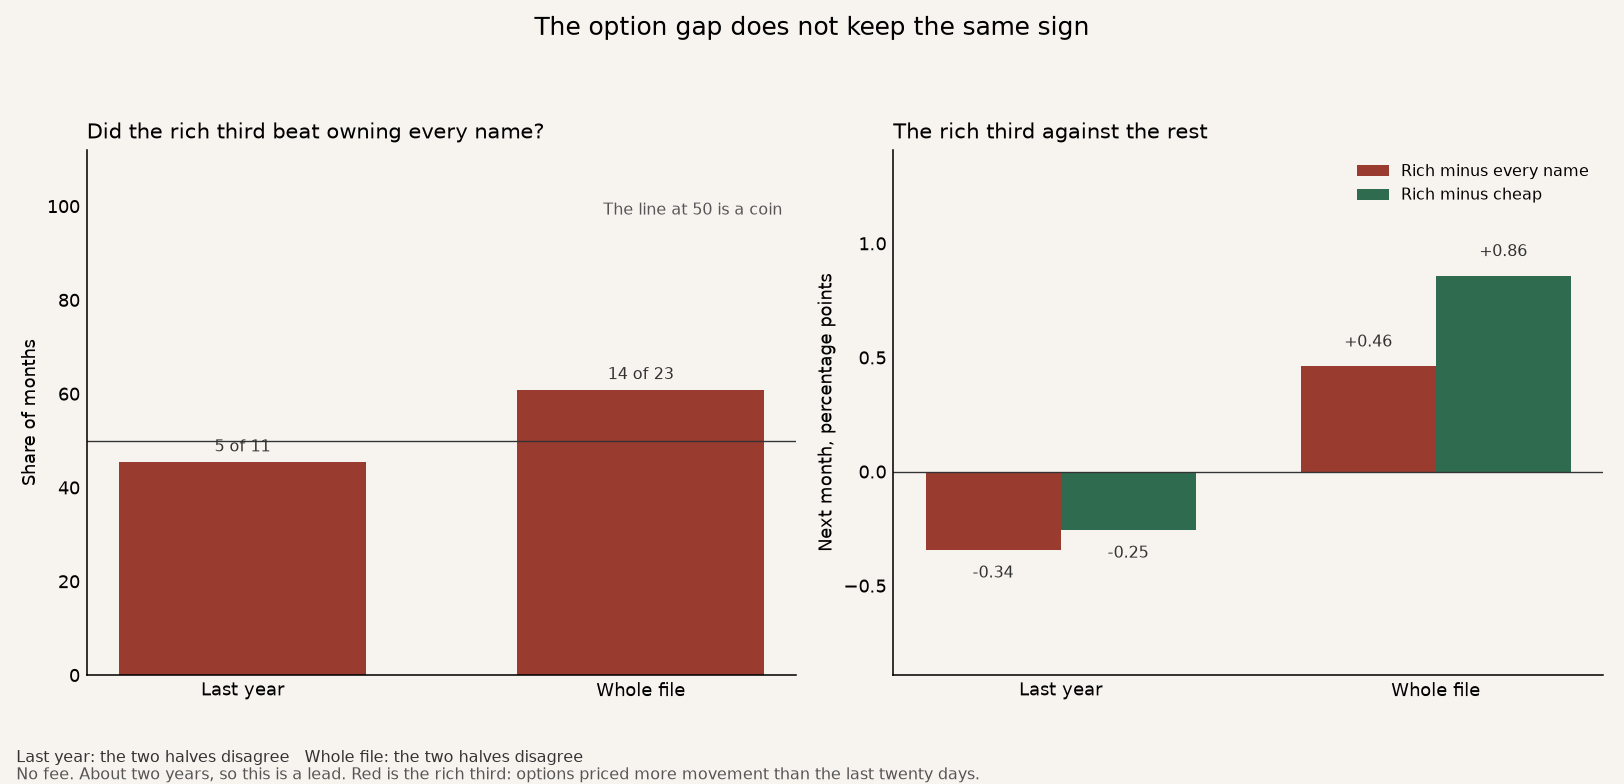
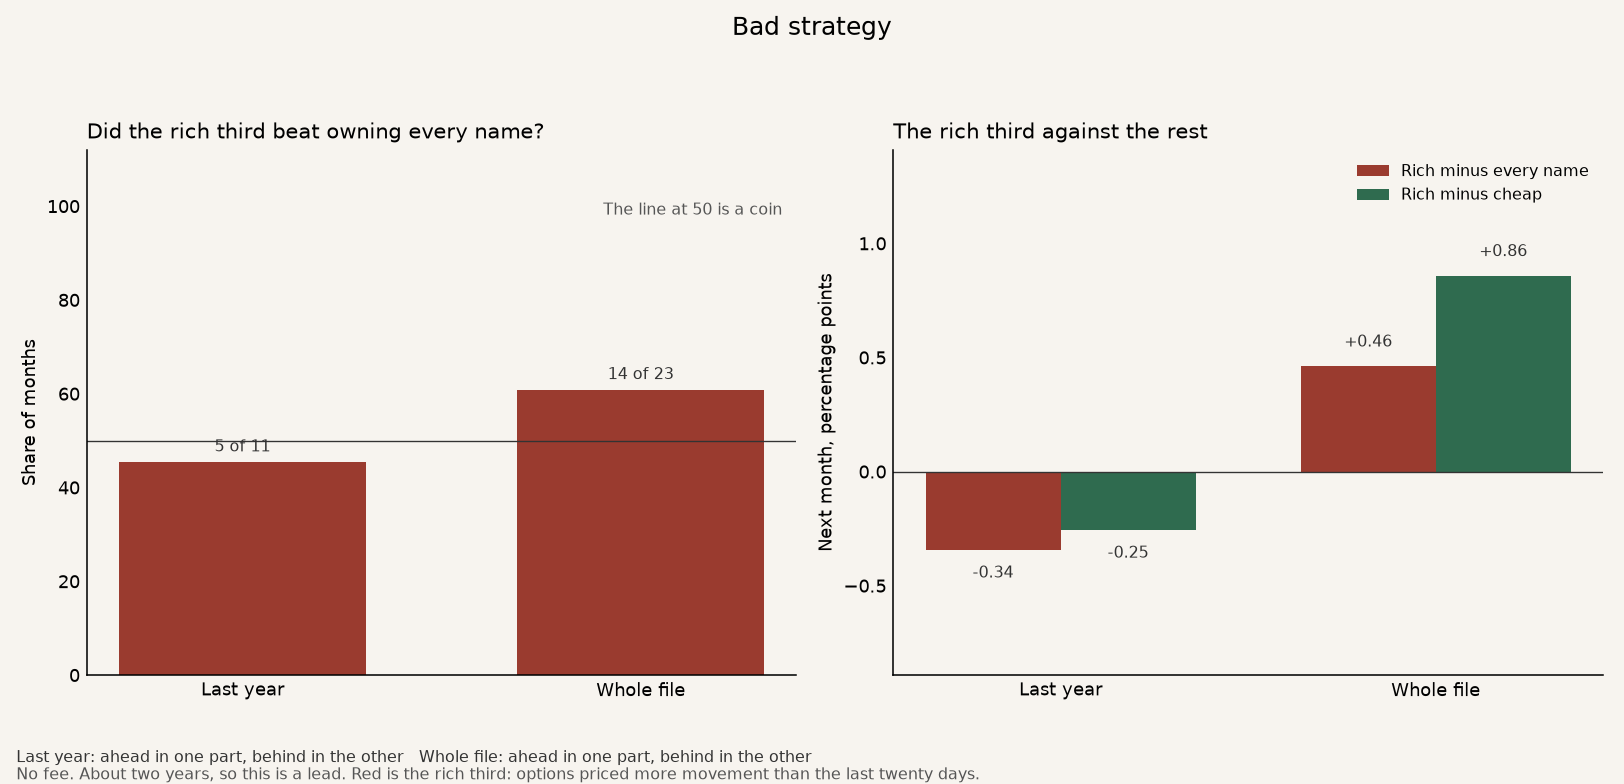
Make each page title the verdict: good strategy or bad strategy.

Changed region(s): [[0.3387, 0.0, 0.6773, 0.0612], [0.0616, 0.949, 0.4926, 0.9796]]

diff --git a/iv-premium/README.md b/iv-premium/README.md
@@ -1,4 +1,4 @@
-# 2026-10-05 · The option gap does not keep the same sign
+# Bad strategy
 
 The idea is that when options price more movement than a stock just had, that richness says something about the next month.
 
@@ -6,7 +6,7 @@ The strategy is the rich third. Each month, hold the stocks whose options priced
 
 The file is 23 months, from September 2024 to August 2026. A **bold** row is a judge. Passing here is a lead. It is not a keep.
 
-![The option gap does not keep the same sign](scorecard.png)
+![Bad strategy](scorecard.png)
 
 How one dollar grew. Red is the rich third. Grey is every ranked name. The dashed line is the S&P 500. Green is the cheap third.
 
@@ -30,9 +30,9 @@ No fee. The S&P line is the price index, close to close, on the same months, wit
 | **Worst fall.** The deepest drop from a peak. Smaller is better. | **−9.3%** | **−9.3%** |
 | Every ranked name | −7.1% | −7.1% |
 | S&P 500 | −5.9% | −7.7% |
-| **Both halves.** Split the history in two. The money has to beat every ranked name in both. | **No** | **No** |
+| **Won in both parts.** The two years are cut in the middle. Each part has to make more money than owning every name. | **No** | **No** |
 
-The two halves disagree, so the option gap does not keep a sign. Over the whole file the rich third finished a little ahead of every name, $2.18 against $1.96, and the Sharpe was higher, 2.34 against 2.03. Over the last year it finished behind, $1.22 against $1.27, and the Sharpe was lower, 1.26 against 1.39. Rich beat cheap in 11 of 23 months. That is a coin. The worst fall was a little deeper than both benchmarks.
+The two years are cut in the middle. In one part the rich group made more than owning every name. In the other part it made less. It has to win in both parts. It did not. Over the whole file it finished a little ahead, $2.18 against $1.96. Over the last year it finished behind, $1.22 against $1.27. Rich beat cheap in 11 of 23 months. That is a coin toss.
 
 Against the S&P 500 the money won in both halves, and the Sharpe won in both windows. Every ranked name also beat the S&P, $1.96 against $1.33, so that gap is this list in a strong two years, not the option gap.
 

diff --git a/README.md b/README.md
@@ -4,8 +4,8 @@ Each test lives in its own folder. Open a folder to see its charts. No transacti
 
 Newest first.
 
-- [2026-10-05 · The option gap does not keep the same sign](iv-premium/)
-- [2026-10-05 · The jumpy stocks made more money](low-beta/)
-- [2026-10-05 · Momentum](momentum/)
-- [2026-10-05 · Calm volume does not keep the same sign](calm-volume/)
-- [2026-10-05 · The night holds the return](night-and-day/)
+- [Bad strategy · implied vol](iv-premium/)
+- [Good strategy · jumpy stocks](low-beta/)
+- [Good strategy · momentum](momentum/)
+- [Bad strategy · calm volume](calm-volume/)
+- [Bad strategy · the night](night-and-day/)

diff --git a/low-beta/README.md b/low-beta/README.md
@@ -1,4 +1,4 @@
-# 2026-10-05 · The jumpy stocks made more money
+# Good strategy
 
 The idea was that a stock which usually moves less than the others is the calmer one to own, and that calm should be the better bet. On this book the jumpy stocks made more money.
 

diff --git a/calm-volume/README.md b/calm-volume/README.md
@@ -1,4 +1,4 @@
-# 2026-10-05 · Calm volume does not keep the same sign
+# Bad strategy
 
 The idea is that a month of jumpy, uneven trading volume means informed traders were busy, so the next month is weaker.
 

diff --git a/night-and-day/README.md b/night-and-day/README.md
@@ -1,4 +1,4 @@
-# 2026-10-05 · The night holds the return
+# Bad strategy
 
 The idea is that a stock's gain arrives overnight, while the market is shut, rather than during the trading day.
 

diff --git a/momentum/README.md b/momentum/README.md
@@ -1,4 +1,4 @@
-# 2026-10-05 · Momentum
+# Good strategy
 
 The idea is that a stock which rose over the past year tends to rise again next month.
 
